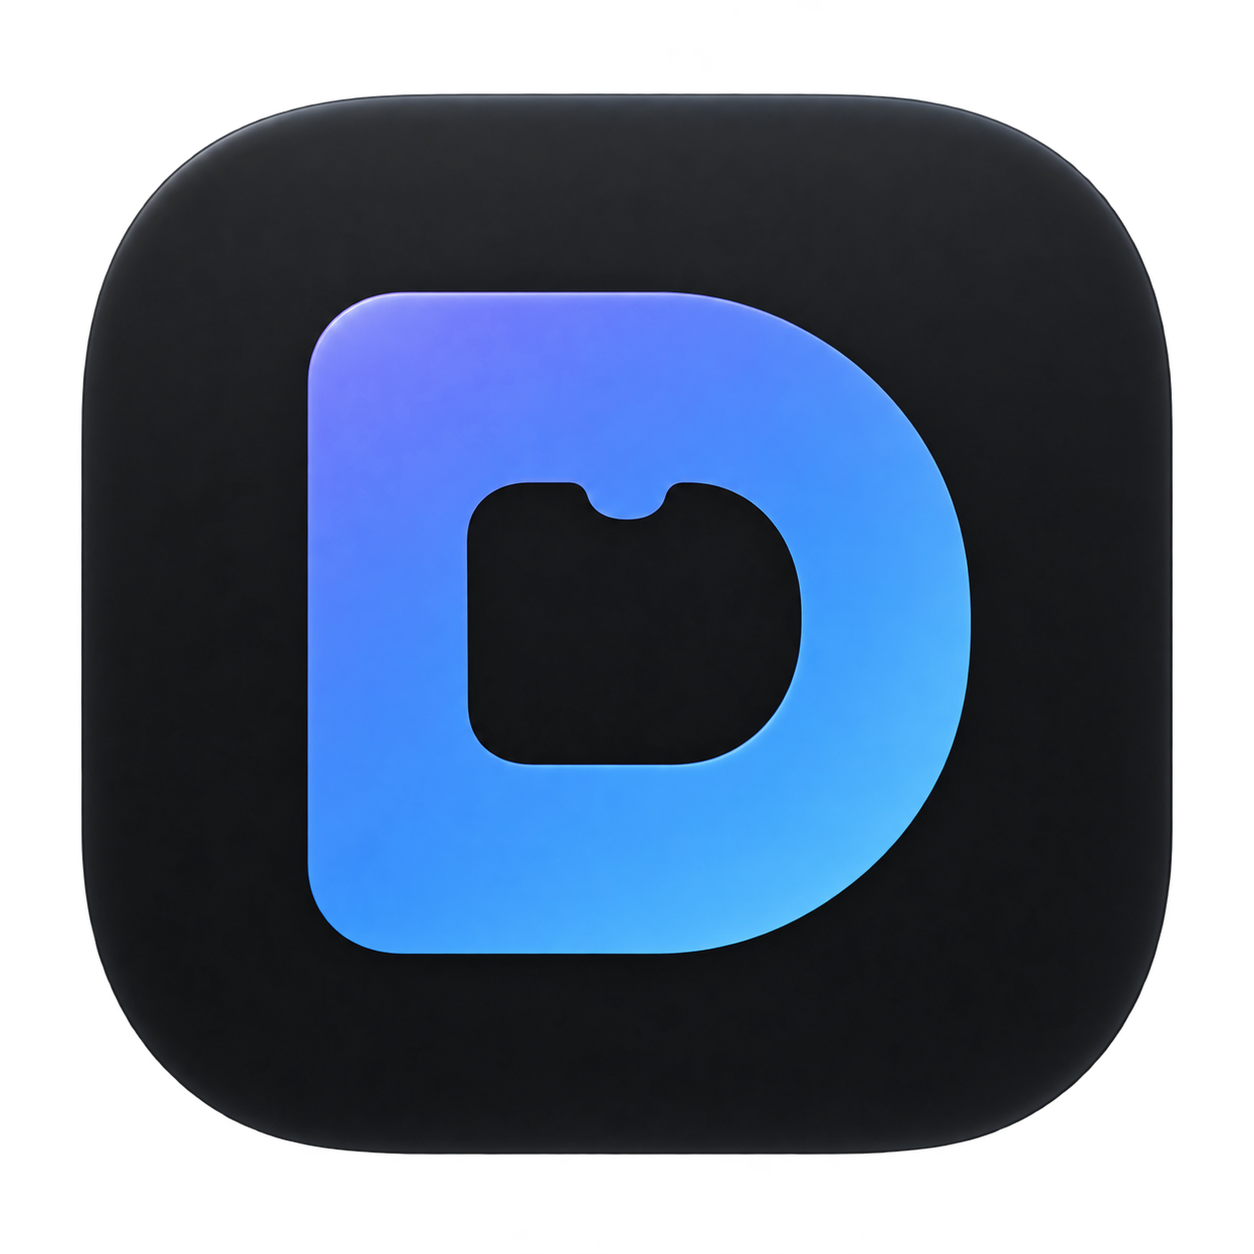
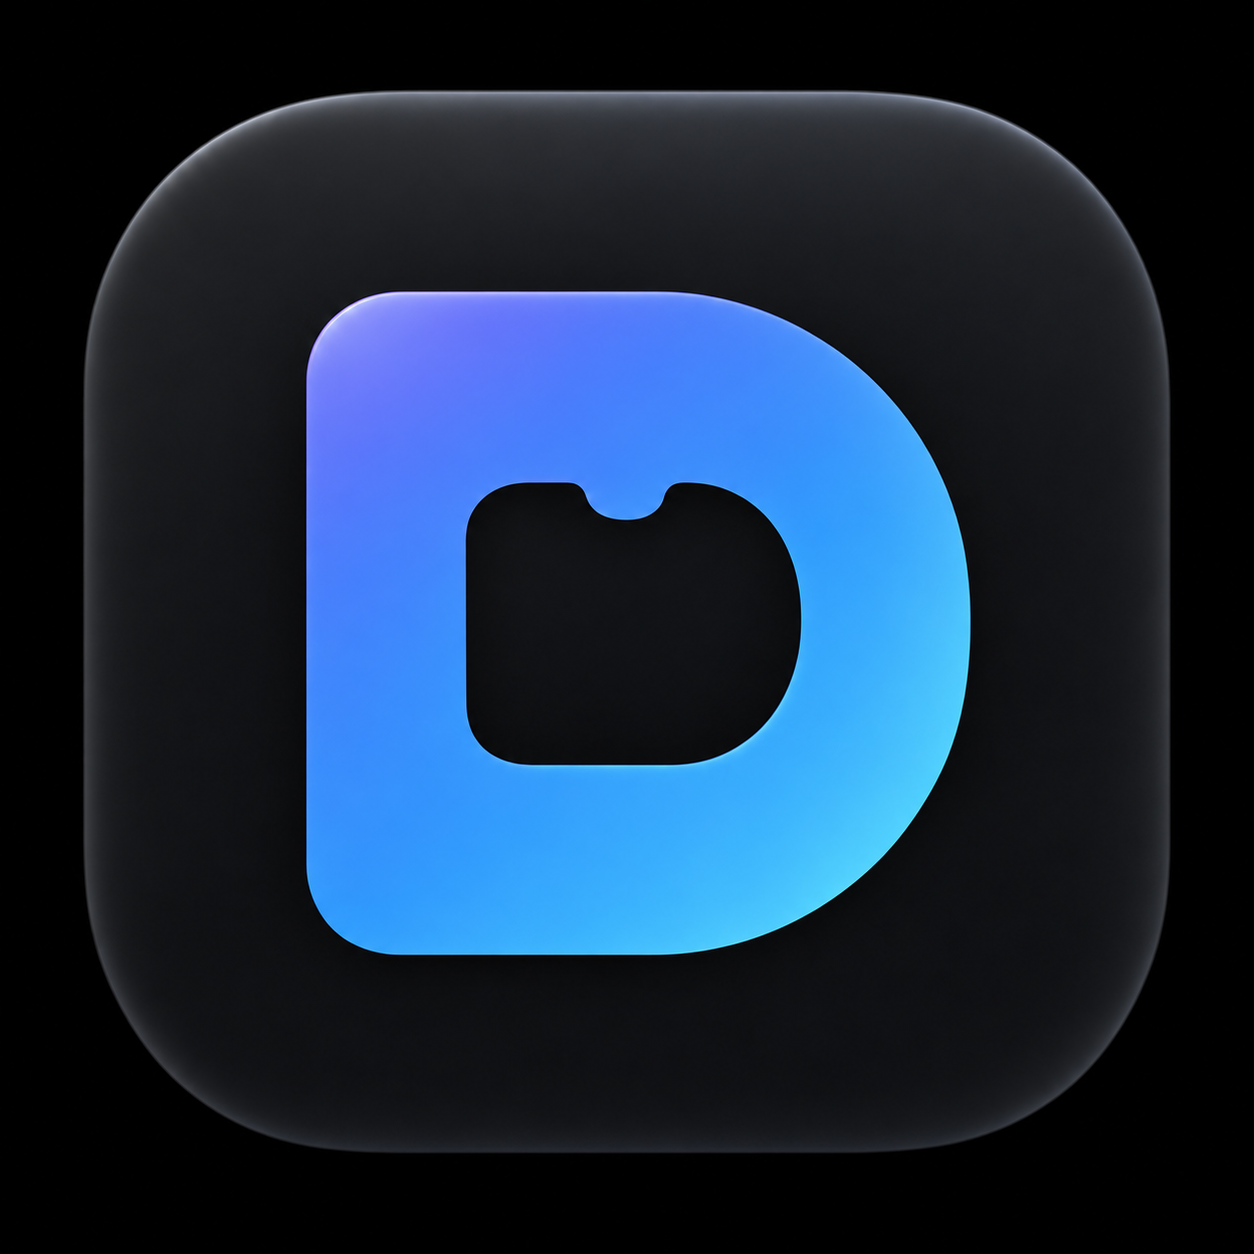
Rename DuckNorth to DuckNorch and refine app layout

diff --git a/Sources/DuckNorchApp.swift b/Sources/DuckNorchApp.swift
@@ -3,11 +3,11 @@ import AppKit
 import UniformTypeIdentifiers
 
 enum ProjectInfo {
-    static let name = "DuckNorth"
-    static let version = Bundle.main.object(forInfoDictionaryKey: "CFBundleShortVersionString") as? String ?? "1.0.1"
-    static let projectURL = URL(string: "https://github.com/LynnWang2/DuckNorth")!
+    static let name = "DuckNorch"
+    static let version = Bundle.main.object(forInfoDictionaryKey: "CFBundleShortVersionString") as? String ?? "1.1.0"
+    static let projectURL = URL(string: "https://github.com/LynnWang2/DuckNorch")!
     static let upstreamURL = URL(string: "https://github.com/mezhevikin/norch")!
-    static let licenseURL = URL(string: "https://github.com/LynnWang2/DuckNorth/blob/main/LICENSE")!
+    static let licenseURL = URL(string: "https://github.com/LynnWang2/DuckNorch/blob/main/LICENSE")!
     @MainActor static var icon: NSImage {
         if let url = Bundle.main.url(forResource: "AppIcon", withExtension: "png"),
            let image = NSImage(contentsOf: url) { return image }
@@ -21,7 +21,7 @@ enum ProjectInfo {
     @Published var preview: NSImage?
     @Published var busy = false
     @Published var targeted = false
-    @Published var status = "选择一张喜欢的壁纸，剩下的交给 DuckNorth。"
+    @Published var status = "选择一张喜欢的壁纸，剩下的交给 DuckNorch。"
     @Published var error: String?
     @Published var folder: URL
     @Published var details = ""
@@ -33,7 +33,7 @@ enum ProjectInfo {
         else {
             folder = (FileManager.default.urls(for: .picturesDirectory, in: .userDomainMask).first
                       ?? FileManager.default.homeDirectoryForCurrentUser.appendingPathComponent("Pictures"))
-                .appendingPathComponent("DuckNorth", isDirectory: true)
+                .appendingPathComponent("DuckNorch", isDirectory: true)
         }
     }
 
@@ -125,7 +125,7 @@ enum ProjectInfo {
                 .imageScaling: NSImageScaling.scaleAxesIndependently.rawValue,
                 .allowClipping: false
             ])
-            status = "已设为桌面壁纸，现在可以关闭 DuckNorth。"
+            status = "已设为桌面壁纸，现在可以关闭 DuckNorch。"
             error = nil
         } catch {
             self.error = "PNG 已保存，但设置桌面壁纸失败：\(error.localizedDescription)"
@@ -159,9 +159,9 @@ struct ContentView: View {
                 Image(nsImage: ProjectInfo.icon).resizable().scaledToFit()
                     .frame(width: 72, height: 72)
                     .clipShape(RoundedRectangle(cornerRadius: 18, style: .continuous))
-                    .accessibilityLabel("DuckNorth 图标")
-                VStack(alignment: .center, spacing: 5) {
-                    Text("DuckNorth").font(.system(size: 29, weight: .semibold))
+                    .accessibilityLabel("DuckNorch 图标")
+                VStack(alignment: .leading, spacing: 5) {
+                    Text("DuckNorch").font(.system(size: 29, weight: .semibold))
                     Text("让刘海融入壁纸").font(.system(size: 15)).foregroundStyle(.secondary)
                 }
             }
@@ -211,21 +211,24 @@ struct ContentView: View {
                     .frame(maxWidth: .infinity).multilineTextAlignment(.center)
                     .accessibilityLabel(model.status)
             }
-            VStack(spacing: 10) {
+            VStack(alignment: .center, spacing: 10) {
                 Button(action: model.applyWallpaper) {
                     Label("设为桌面壁纸", systemImage: "desktopcomputer")
-                        .font(.system(size: 18, weight: .semibold))
-                        .frame(maxWidth: .infinity, minHeight: 58)
+                        .font(.system(size: 22, weight: .semibold))
+                        .frame(minHeight: 70)
+                        .padding(.horizontal, 32)
                 }.buttonStyle(.borderedProminent).tint(accent).controlSize(.large)
                     .disabled(model.output == nil || model.busy)
                     .keyboardShortcut(.return, modifiers: [])
                 Button(action: model.reveal) {
                     Label("在访达中显示", systemImage: "folder")
-                        .font(.system(size: 14, weight: .medium))
-                        .frame(maxWidth: .infinity, minHeight: 46)
+                        .font(.system(size: 16, weight: .medium))
+                        .frame(minHeight: 46)
+                        .padding(.horizontal, 18)
                 }.buttonStyle(.bordered).controlSize(.large)
                     .disabled(model.output == nil || model.busy)
             }
+            .frame(maxWidth: .infinity, alignment: .center)
             Divider()
             HStack(spacing: 10) {
                 Image(systemName: "folder").foregroundStyle(.secondary)
@@ -246,7 +249,7 @@ struct ContentView: View {
         }
         .padding(28).frame(width: 650)
         .background(Color(nsColor: .windowBackgroundColor))
-        .alert("DuckNorth", isPresented: Binding(get: { model.error != nil }, set: { if !$0 { model.error = nil } })) {
+        .alert("DuckNorch", isPresented: Binding(get: { model.error != nil }, set: { if !$0 { model.error = nil } })) {
             Button("好", role: .cancel) { model.error = nil }
         } message: { Text(model.error ?? "") }
     }
@@ -258,7 +261,7 @@ struct AboutView: View {
             Image(nsImage: ProjectInfo.icon).resizable().scaledToFit()
                 .frame(width: 112, height: 112)
                 .clipShape(RoundedRectangle(cornerRadius: 24, style: .continuous))
-                .accessibilityLabel("DuckNorth 图标")
+                .accessibilityLabel("DuckNorch 图标")
             VStack(spacing: 6) {
                 Text(ProjectInfo.name).font(.system(size: 25, weight: .semibold))
                 Text("版本 \(ProjectInfo.version)").font(.system(size: 13)).foregroundStyle(.secondary)
@@ -266,7 +269,7 @@ struct AboutView: View {
             VStack(spacing: 14) {
                 VStack(spacing: 4) {
                     Text("项目链接").font(.system(size: 12)).foregroundStyle(.secondary)
-                    Link("github.com/LynnWang2/DuckNorth", destination: ProjectInfo.projectURL)
+                    Link("github.com/LynnWang2/DuckNorch", destination: ProjectInfo.projectURL)
                 }
                 VStack(spacing: 4) {
                     Text("原项目链接").font(.system(size: 12)).foregroundStyle(.secondary)
@@ -296,7 +299,7 @@ struct AboutView: View {
         let hosting = NSHostingView(rootView: ContentView(model: model))
         window = NSWindow(contentRect: NSRect(x: 0, y: 0, width: 650, height: 620),
                           styleMask: [.titled, .closable, .miniaturizable], backing: .buffered, defer: false)
-        window.title = "DuckNorth"
+        window.title = "DuckNorch"
         window.contentView = hosting
         window.setContentSize(hosting.fittingSize)
         window.center()
@@ -326,7 +329,7 @@ struct AboutView: View {
         let view = NSHostingView(rootView: AboutView())
         let panel = NSWindow(contentRect: NSRect(x: 0, y: 0, width: 420, height: 430),
                              styleMask: [.titled, .closable], backing: .buffered, defer: false)
-        panel.title = "关于 DuckNorth"
+        panel.title = "关于 DuckNorch"
         panel.contentView = view
         panel.setContentSize(view.fittingSize)
         panel.isReleasedWhenClosed = false
@@ -337,11 +340,11 @@ struct AboutView: View {
     private func makeMenus() {
         let bar = NSMenu()
         let app = NSMenu()
-        app.addItem(withTitle: "关于 DuckNorth", action: #selector(about), keyEquivalent: "").target = self
+        app.addItem(withTitle: "关于 DuckNorch", action: #selector(about), keyEquivalent: "").target = self
         app.addItem(.separator())
-        app.addItem(withTitle: "隐藏 DuckNorth", action: #selector(NSApplication.hide(_:)), keyEquivalent: "h")
+        app.addItem(withTitle: "隐藏 DuckNorch", action: #selector(NSApplication.hide(_:)), keyEquivalent: "h")
         app.addItem(.separator())
-        app.addItem(withTitle: "退出 DuckNorth", action: #selector(NSApplication.terminate(_:)), keyEquivalent: "q")
+        app.addItem(withTitle: "退出 DuckNorch", action: #selector(NSApplication.terminate(_:)), keyEquivalent: "q")
         let appItem = NSMenuItem(); appItem.submenu = app; bar.addItem(appItem)
         let file = NSMenu(title: "文件")
         file.addItem(withTitle: "选择壁纸…", action: #selector(choose), keyEquivalent: "o").target = self
@@ -350,14 +353,14 @@ struct AboutView: View {
         file.addItem(withTitle: "关闭窗口", action: #selector(NSWindow.performClose(_:)), keyEquivalent: "w")
         let fileItem = NSMenuItem(title: "文件", action: nil, keyEquivalent: ""); fileItem.submenu = file; bar.addItem(fileItem)
         let help = NSMenu(title: "帮助")
-        help.addItem(withTitle: "DuckNorth 使用说明", action: #selector(self.help), keyEquivalent: "").target = self
+        help.addItem(withTitle: "DuckNorch 使用说明", action: #selector(self.help), keyEquivalent: "").target = self
         let helpItem = NSMenuItem(title: "帮助", action: nil, keyEquivalent: ""); helpItem.submenu = help; bar.addItem(helpItem)
         NSApp.mainMenu = bar
     }
 }
 
 #if !DUCKNORTH_TESTING
-@main struct DuckNorthMain {
+@main struct DuckNorchMain {
     @MainActor static func main() {
         let application = NSApplication.shared
         let delegate = AppDelegate()

diff --git a/Sources/WallpaperEngine.swift b/Sources/WallpaperEngine.swift
@@ -29,7 +29,7 @@ struct ScreenGeometry: Sendable, Equatable {
     }
 }
 
-enum DuckNorthError: LocalizedError {
+enum DuckNorchError: LocalizedError {
     case message(String)
     var errorDescription: String? { if case .message(let text) = self { return text }; return nil }
 }
@@ -42,13 +42,13 @@ enum WallpaperEngine {
               let rawWidth = props[kCGImagePropertyPixelWidth] as? Int,
               let rawHeight = props[kCGImagePropertyPixelHeight] as? Int,
               rawWidth > 0, rawHeight > 0 else {
-            throw DuckNorthError.message("无法读取这张图片。请选择有效的 JPG、PNG、HEIC 或 TIFF 图片。")
+            throw DuckNorchError.message("无法读取这张图片。请选择有效的 JPG、PNG、HEIC 或 TIFF 图片。")
         }
         let width = geometry.width, height = geometry.height
         guard width > 2, height > 2, width <= 16384, height <= 16384,
               geometry.strip.isFinite, geometry.strip >= 0, geometry.strip < CGFloat(height - 2),
               geometry.radius.isFinite, geometry.radius > 0 else {
-            throw DuckNorthError.message("无法获取有效的屏幕尺寸，请重新打开 DuckNorth。")
+            throw DuckNorchError.message("无法获取有效的屏幕尺寸，请重新打开 DuckNorch。")
         }
         // ImageIO applies camera orientation, and downsamples large photos before decoding.
         let orientation = props[kCGImagePropertyOrientation] as? Int ?? 1
@@ -66,7 +66,7 @@ enum WallpaperEngine {
               let context = CGContext(data: nil, width: width, height: height,
                                       bitsPerComponent: 8, bytesPerRow: 0, space: colorSpace,
                                       bitmapInfo: CGImageAlphaInfo.noneSkipLast.rawValue) else {
-            throw DuckNorthError.message("无法处理这张图片，可能是文件损坏或可用内存不足。")
+            throw DuckNorchError.message("无法处理这张图片，可能是文件损坏或可用内存不足。")
         }
         let canvas = CGRect(x: 0, y: 0, width: width, height: height)
         context.setFillColor(CGColor(gray: 0, alpha: 1))
@@ -84,7 +84,7 @@ enum WallpaperEngine {
         context.interpolationQuality = .high
         context.draw(image, in: drawn)
         guard let rendered = context.makeImage() else {
-            throw DuckNorthError.message("生成壁纸失败，请重试。")
+            throw DuckNorchError.message("生成壁纸失败，请重试。")
         }
         try FileManager.default.createDirectory(at: folder, withIntermediateDirectories: true)
         let formatter = DateFormatter()
@@ -97,11 +97,11 @@ enum WallpaperEngine {
         defer { try? FileManager.default.removeItem(at: temporary) }
         guard let destination = CGImageDestinationCreateWithURL(temporary as CFURL,
                                                                 UTType.png.identifier as CFString, 1, nil) else {
-            throw DuckNorthError.message("无法写入保存文件夹，请选择其他文件夹。")
+            throw DuckNorchError.message("无法写入保存文件夹，请选择其他文件夹。")
         }
         CGImageDestinationAddImage(destination, rendered, nil)
         guard CGImageDestinationFinalize(destination) else {
-            throw DuckNorthError.message("保存 PNG 失败，请检查剩余空间及文件夹权限。")
+            throw DuckNorchError.message("保存 PNG 失败，请检查剩余空间及文件夹权限。")
         }
         // moveItem refuses to replace an existing file; the original is never opened for writing.
         try FileManager.default.moveItem(at: temporary, to: output)

diff --git a/Tests/ModelTests.swift b/Tests/ModelTests.swift
@@ -9,7 +9,7 @@ import UniformTypeIdentifiers
         let model = WallpaperModel()
         model.folder = root.appendingPathComponent("drop-results", isDirectory: true)
         guard let item = NSItemProvider(contentsOf: input), model.receive([item]) else {
-            throw DuckNorthError.message("TEST FAILED: file URL drop rejected")
+            throw DuckNorchError.message("TEST FAILED: file URL drop rejected")
         }
         for _ in 0..<1000 {
             if model.output != nil || model.error != nil { break }
@@ -17,14 +17,14 @@ import UniformTypeIdentifiers
         }
         guard model.input == input, let output = model.output, model.preview != nil,
               model.error == nil, !model.busy else {
-            throw DuckNorthError.message("TEST FAILED: asynchronous drop and preview: \(model.error ?? "timeout")")
+            throw DuckNorchError.message("TEST FAILED: asynchronous drop and preview: \(model.error ?? "timeout")")
         }
         print("PASS: Finder-compatible file URL provider, asynchronous rendering, preview, saved output")
         if CommandLine.arguments.contains("--apply-and-restore") {
             let screen = NSScreen.screens.first!
             let workspace = NSWorkspace.shared
             guard let original = workspace.desktopImageURL(for: screen) else {
-                throw DuckNorthError.message("Cannot safely test wallpaper without a restorable original URL")
+                throw DuckNorchError.message("Cannot safely test wallpaper without a restorable original URL")
             }
             let options = workspace.desktopImageOptions(for: screen) ?? [:]
             // Restore after success or failure. Keep the generated file in the test directory.
@@ -36,7 +36,7 @@ import UniformTypeIdentifiers
                 try await Task.sleep(for: .milliseconds(20))
             }
             guard model.error == nil, workspace.desktopImageURL(for: screen)?.standardizedFileURL == output.standardizedFileURL else {
-                throw DuckNorthError.message("TEST FAILED: apply wallpaper: \(model.error ?? "URL mismatch")")
+                throw DuckNorchError.message("TEST FAILED: apply wallpaper: \(model.error ?? "URL mismatch")")
             }
             try workspace.setDesktopImageURL(original, for: screen, options: options)
             for _ in 0..<250 {
@@ -45,7 +45,7 @@ import UniformTypeIdentifiers
             }
             restored = true
             guard workspace.desktopImageURL(for: screen)?.standardizedFileURL == original.standardizedFileURL else {
-                throw DuckNorthError.message("TEST FAILED: original wallpaper restoration")
+                throw DuckNorchError.message("TEST FAILED: original wallpaper restoration")
             }
             print("PASS: one-click wallpaper method applied successfully; original wallpaper and options restored")
         }

diff --git a/Tools/FlattenIcon.swift b/Tools/FlattenIcon.swift
@@ -7,6 +7,16 @@ guard CommandLine.arguments.count == 3,
     fatalError("Usage: FlattenIcon.swift input.png output.png")
 }
 let width = image.width, height = image.height
+// The supplied artwork includes a dark canvas around its rounded tile. Crop
+// that margin so the tile fills the macOS icon mask instead of appearing as a
+// second, smaller app icon inside the system-rounded icon.
+let cropSide = CGFloat(min(width, height)) * 0.875
+let cropRect = CGRect(x: (CGFloat(width) - cropSide) / 2,
+                      y: (CGFloat(height) - cropSide) / 2,
+                      width: cropSide, height: cropSide)
+guard let cropped = image.cropping(to: cropRect.integral) else {
+    fatalError("Could not crop icon canvas")
+}
 guard let colorSpace = CGColorSpace(name: CGColorSpace.sRGB),
       let context = CGContext(data: nil, width: width, height: height,
                               bitsPerComponent: 8, bytesPerRow: 0, space: colorSpace,
@@ -19,7 +29,7 @@ context.setFillColor(CGColor(srgbRed: 24.0 / 255, green: 25.0 / 255, blue: 30.0 
 context.fill(CGRect(x: 0, y: 0, width: width, height: height))
 context.setBlendMode(.normal)
 context.interpolationQuality = .high
-context.draw(image, in: CGRect(x: 0, y: 0, width: width, height: height))
+context.draw(cropped, in: CGRect(x: 0, y: 0, width: width, height: height))
 guard let flattened = context.makeImage(),
       let destination = CGImageDestinationCreateWithURL(
         URL(fileURLWithPath: CommandLine.arguments[2]) as CFURL, "public.png" as CFString, 1, nil) else {

diff --git a/Tools/MakeIcon.swift b/Tools/MakeIcon.swift
@@ -12,7 +12,7 @@ func render(_ size: Int) throws -> Data {
                                      bitsPerSample: 8, samplesPerPixel: 4, hasAlpha: true,
                                      isPlanar: false, colorSpaceName: .deviceRGB, bytesPerRow: 0, bitsPerPixel: 0),
           let context = NSGraphicsContext(bitmapImageRep: rep) else {
-        throw NSError(domain: "DuckNorth.Icon", code: 1)
+        throw NSError(domain: "DuckNorch.Icon", code: 1)
     }
     NSGraphicsContext.saveGraphicsState()
     defer { NSGraphicsContext.restoreGraphicsState() }
@@ -21,7 +21,7 @@ func render(_ size: Int) throws -> Data {
     source.draw(in: NSRect(x: 0, y: 0, width: size, height: size), from: .zero,
                 operation: .copy, fraction: 1, respectFlipped: false, hints: nil)
     guard let png = rep.representation(using: .png, properties: [:]) else {
-        throw NSError(domain: "DuckNorth.Icon", code: 2)
+        throw NSError(domain: "DuckNorch.Icon", code: 2)
     }
     return png
 }

diff --git a/Tests/EngineTests.swift b/Tests/EngineTests.swift
@@ -3,7 +3,7 @@ import ImageIO
 import UniformTypeIdentifiers
 
 func require(_ value: Bool, _ message: String) throws {
-    if !value { throw DuckNorthError.message("TEST FAILED: " + message) }
+    if !value { throw DuckNorchError.message("TEST FAILED: " + message) }
 }
 
 func fixture(_ url: URL, width: Int, height: Int, orientation: Int = 1) throws {

diff --git a/README.md b/README.md
@@ -1,17 +1,17 @@
-<p align="center"><img src="Resources/AppIcon.png" width="128" alt="DuckNorth icon" /></p>
-<h1 align="center">DuckNorth</h1>
+<p align="center"><img src="Resources/AppIcon.png" width="128" alt="DuckNorch icon" /></p>
+<h1 align="center">DuckNorch</h1>
 <p align="center">轻量原生 macOS 壁纸工具，让刘海融入黑色菜单栏。</p>
 <p align="center">Apple Silicon · macOS 27+ · MIT</p>
 
 ## 下载与使用
 
-从 [Releases](https://github.com/LynnWang2/DuckNorth/releases/latest) 下载 `DuckNorth-1.0.1-macOS27-arm64.zip`，解压后打开 `DuckNorth.app`，也可以将它拖入“应用程序”文件夹。
+从 [Releases](https://github.com/LynnWang2/DuckNorch/releases/latest) 下载 `DuckNorch-1.1.0-macOS27-arm64.zip`，解压后打开 `DuckNorch.app`，也可以将它拖入“应用程序”文件夹。
 
 1. 将图片拖入中央区域，或点击该区域选择壁纸。
 2. 自动生成并预览 PNG；点击“设为桌面壁纸”应用。
 3. 关闭窗口即可退出，壁纸效果继续保留。
 
-生成文件默认保存到 `~/Pictures/DuckNorth`，支持选择其他保存文件夹。原图和已有结果均不会覆盖，每次生成独立 PNG。设置后请保留所使用的 PNG 文件。
+生成文件默认保存到 `~/Pictures/DuckNorch`，支持选择其他保存文件夹。原图和已有结果均不会覆盖，每次生成独立 PNG。设置后请保留所使用的 PNG 文件。
 
 安装包采用本地临时签名，没有 Developer ID 签名与 Apple 公证。首次下载打开若被系统阻止，先尝试打开一次，再到“系统设置 → 隐私与安全性”选择“仍要打开”。无需关闭 Gatekeeper。
 
@@ -30,13 +30,13 @@
 在 Apple Silicon + macOS 27 环境中安装 Xcode Command Line Tools，然后运行：
 
 ```sh
-git clone https://github.com/LynnWang2/DuckNorth.git
-cd DuckNorth
+git clone https://github.com/LynnWang2/DuckNorch.git
+cd DuckNorch
 ./build.sh
-open dist/DuckNorth.app
+open dist/DuckNorch.app
 ```
 
-默认输出 `dist/DuckNorth.app`，可通过 `./build.sh /absolute/output/path` 指定位置。图标转换、编译、打包及本地签名均由构建脚本完成，无需额外依赖。
+默认输出 `dist/DuckNorch.app`，可通过 `./build.sh /absolute/output/path` 指定位置。图标转换、编译、打包及本地签名均由构建脚本完成，无需额外依赖。
 
 ## 测试
 
@@ -51,6 +51,6 @@ open dist/DuckNorth.app
 
 ## 致谢与许可证
 
-壁纸逻辑基于 [mezhevikin/norch](https://github.com/mezhevikin/norch)，参考提交 `400cb15769d33ddb7c97f661ff759684b35d16ec`。DuckNorth 是独立的图形界面封装，并非原项目的官方版本。
+壁纸逻辑基于 [mezhevikin/norch](https://github.com/mezhevikin/norch)，参考提交 `400cb15769d33ddb7c97f661ff759684b35d16ec`。DuckNorch 是独立的图形界面封装，并非原项目的官方版本。
 
 项目以 [MIT License](LICENSE) 开源，原项目许可证保留于 [Resources/Upstream-LICENSE](Resources/Upstream-LICENSE)，并随应用分发。图标为用户选定的 AI 辅助设计，包含于本项目的 MIT 分发范围。
